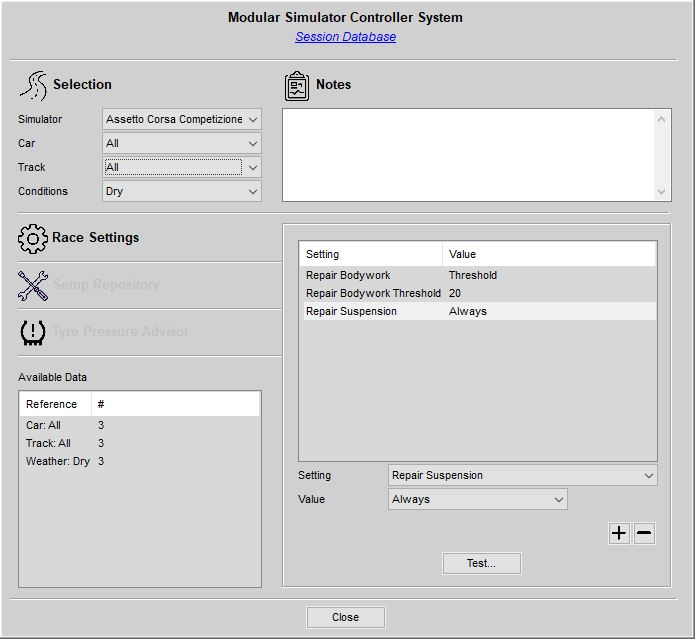
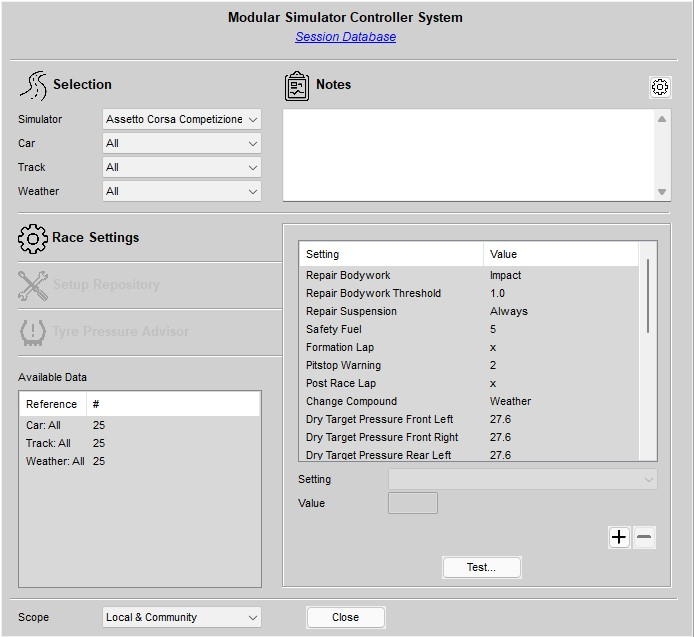
Relocatable Session Database

diff --git a/Docs/Virtual Race Engineer.md b/Docs/Virtual Race Engineer.md
@@ -395,7 +395,7 @@ Whenever you have to setup your car for a given track and specific environmental
 
 ![](https://github.com/SeriousOldMan/Simulator-Controller/blob/main/Docs/Images/Session%20Database%203.jpg)
 
-This tool gives you access to the database where you have access to the tyre pressures of all your past sessions, where you can store your track specific car setups and where you can provide default values for various settings for the Virtual Race Asssistants. These values can be used to initialize the [race settings](https://github.com/SeriousOldMan/Simulator-Controller/wiki/Virtual-Race-Engineer#race-settings) using track and car specific default values.
+This tool gives you access to the database where you have access to the tyre pressures of all your past sessions, where you can store your track specific car setups and where you can provide default values for various settings for the Virtual Race Asssistants. These values can be used to initialize the [race settings](https://github.com/SeriousOldMan/Simulator-Controller/wiki/Virtual-Race-Engineer#race-settings) using track and car specific default values. Telemetry information of all past sessions is also stored in the database. Use the ["Strategy Workbench"](https://github.com/SeriousOldMan/Simulator-Controller/wiki/Virtual-Race-Strategist#strategy-development) to browse this data.
 
 You have to use the menus in the upper left area to specify the simulation, car, track, current weather and so on. After you have done that, you can select one of the database topics using the choice tabs.
 
@@ -472,6 +472,10 @@ Here you will get a recommendation for initial cold tyre pressures, if a matchin
 ![](https://github.com/SeriousOldMan/Simulator-Controller/blob/main/Docs/Images/Session%20Database%207.jpg)
 
 Note: If the "Session Database" tool has been [started by the "Race Settings" tool](https://github.com/SeriousOldMan/Simulator-Controller/wiki/Virtual-Race-Engineer#tab-race), you can transfer the current tyre pressure and compound information to the *Race Settings* by pressing the "Load" button.
+  
+#### Choosing the Database location
+
+Normally, the database is located in the *Simulator Controller\Database* folder in your user *Documents* folder. If you want to move it to another location, or if you want to temporarily switch to another database, for example to look at the data of a friend, you can click at the small button with a gear in the upper right corner of the *Session Database* window. A file chooser will open up and allow you to select a different folder as the new database location. You will be asked, if you want to transfer all your current data to the new location, or if you want to start with a blank sheet of paper. Please note, that once you have changed the database location, you have to restart all applications.
 
 ## Technical information
 
